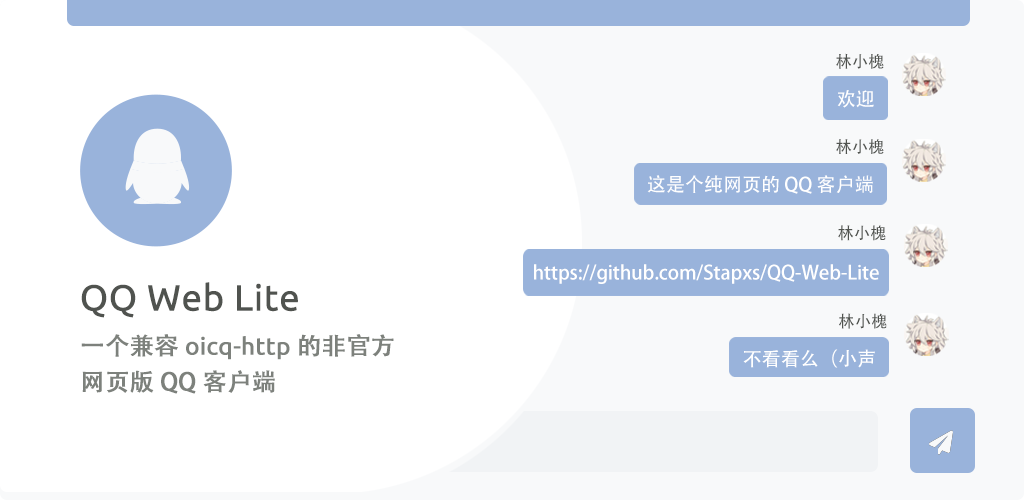
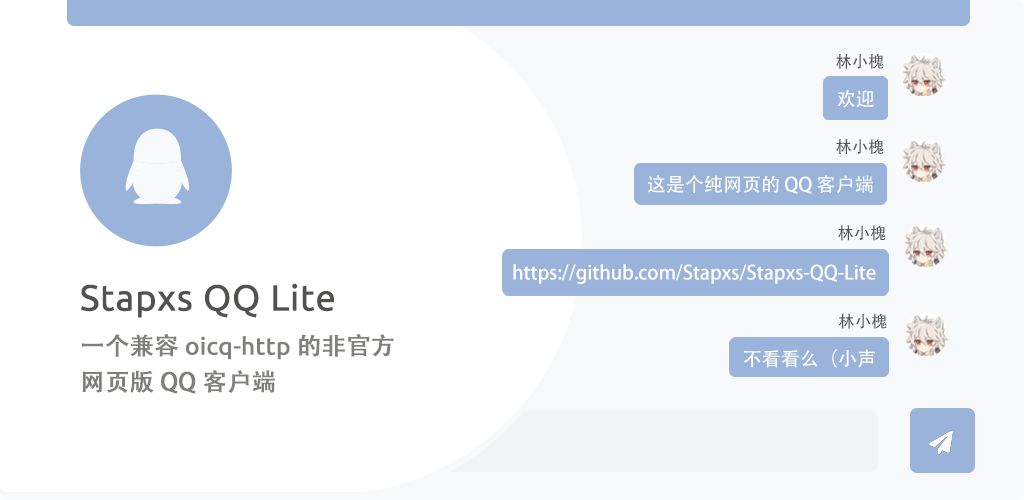
改名

Changed region(s): [[0.4688, 0.48, 0.875, 0.6], [0.0625, 0.57, 0.3438, 0.63]]

diff --git a/index.html b/index.html
@@ -3,7 +3,7 @@
 
 <head>
     <!-- 标题 -->
-    <title>QQ Web Lite</title>
+    <title>Stapxs QQ Lite</title>
 
     <!-- 页面信息 -->
     <meta http-equiv="Content-Type" content="text/html; charset=utf-8">
@@ -174,7 +174,7 @@
     <footer class="container-lg main-body" id="footer" style="transition: transform .5s;">
         <div class="ss-card">
             <header>
-                QQ Web Lite
+                Stapxs QQ Lite
             </header>
             <span>Copyright © 2020 - 2022 Stapx Steve [ 林槐 ]</span><br>
             <div style="float: right;margin-top: -44px;">
@@ -446,10 +446,10 @@
                     		c60,18.1,134.4,29.8,190.6,29.1h0.6c56.2,0.7,130.6-11,190.7-29.1L713.6,471.1z"/>
                     </g>
                     </svg>
-                    <p style="font-size: 1.5rem;margin-top: 20px;margin-bottom: 0;">QQ Web Lite</p>
-                    <a style="display: block;">一个兼容 oicq-http 的 QQ 网页版</a>
+                    <p style="font-size: 1.5rem;margin-top: 20px;margin-bottom: 0;">Stapxs QQ Lite</p>
+                    <a style="display: block;">一个兼容 oicq-http 的非官方网页版 QQ 客户端</a>
                     <a id="opt-version" style="color: var(--color-font-2);display: block;font-size: 0.9rem;margin-top: 20px;">version</a>
-                    <button class="ss-button" style="margin-top: 20px;width: 80%;">访问仓库</button>
+                    <button class="ss-button" style="margin-top: 20px;width: 80%;" onclick="window.open('https://github.com/Stapxs/Stapxs-QQ-Lite')">访问仓库</button>
                 </div>
                 <div class="ss-card" style="margin-top: 20px;margin-bottom: 20px;background: var(--color-card-1);margin-right: 20px;">
                     <button style="background: transparent;text-align: left;height: 50px;width: 100%;padding: 0;border: 0;" onclick="foldChange(this)" class="btn btn-primary lis-button collapsed" type="button" data-toggle="collapse" data-target="#collapseExample" aria-expanded="false" aria-controls="collapseExample">

diff --git a/README.md b/README.md
@@ -1,11 +1,11 @@
 # QQ Web Lite
-![logo](https://raw.githubusercontent.com/Stapxs/QQ-Web-Lite/main/topbar.png)
+![logo](https://raw.githubusercontent.com/Stapxs/Stapxs-QQ-Lite/main/topbar.png)
 
 <div align="center">
     <div>
-        <img alt="GitHub repo size" src="https://img.shields.io/github/repo-size/Stapxs/QQ-Web-Lite?style=for-the-badge">
-        <img alt="GitHub release (latest by date including pre-releases)" src="https://img.shields.io/github/v/release/Stapxs/QQ-Web-Lite?include_prereleases&style=for-the-badge">
-        <img alt="GitHub last commit" src="https://img.shields.io/github/last-commit/Stapxs/QQ-Web-Lite?style=for-the-badge">
+        <img alt="GitHub repo size" src="https://img.shields.io/github/repo-size/Stapxs/Stapxs-QQ-Lite?style=for-the-badge">
+        <img alt="GitHub release (latest by date including pre-releases)" src="https://img.shields.io/github/v/release/Stapxs/Stapxs-QQ-Lite?include_prereleases&style=for-the-badge">
+        <img alt="GitHub last commit" src="https://img.shields.io/github/last-commit/Stapxs/Stapxs-QQ-Lite?style=for-the-badge">
     </div>
 </div>
 <br>
@@ -14,7 +14,7 @@
 # 部署
 
 ## Github Pages
-本仓库开启了 GitHub Pages, 你可以选择直接访问本仓库的页面来使用: https://stapxs.github.io/QQ-Web-Lite/
+本仓库开启了 GitHub Pages, 你可以选择直接访问本仓库的页面来使用: https://stapxs.github.io/Stapxs-QQ-Lite/
 
 ## 克隆仓库
 此项目为完整的纯前端静态页面,你可以克隆仓库,非常暴力的直接打开 index.html 来使用; 但是需要注意的是部分浏览器在使用 file:// 协议的时候无法正常允许页面发起通知, 同时文件也无法唤起 PWA 功能进行 PWA APP 安装。
@@ -67,13 +67,13 @@
 - 如果你使用的是 oicq-http, 可以查看此处了解封号风险 (https://github.com/takayama-lily/oicq/wiki/98.%E5%85%B3%E4%BA%8E%E8%B4%A6%E5%8F%B7%E5%86%BB%E7%BB%93%E5%92%8C%E9%A3%8E%E6%8E%A7), 如果你尝试使用其他 QQ Bot (参见上一条问题), 请自行参考它的文档。
 
 ### 我遇到了问题
-- 如果有什么奇奇怪怪的问题, 欢迎发起 issue 询问! 如果有什么 BUG 和优化建议也可以哦! (https://github.com/Stapxs/QQ-Web-Lite/issues)
+- 如果有什么奇奇怪怪的问题, 欢迎发起 issue 询问! 如果有什么 BUG 和优化建议也可以哦! (https://github.com/Stapxs/Stapxs-QQ-Lite/issues)
 
 
 <br>
 <br>
 <div align="right">
-    <font style="font-size: 0.8rem">README v1.0</font><br>
+    <font style="font-size: 0.8rem">README v1.1</font><br>
     <font style="font-size: 0.8rem">Stapx Steve [ 林槐 ] 2022</font><br>
     <font style="font-size: 0.8rem">林槐出品, 必属稽品</font>
 </div>
